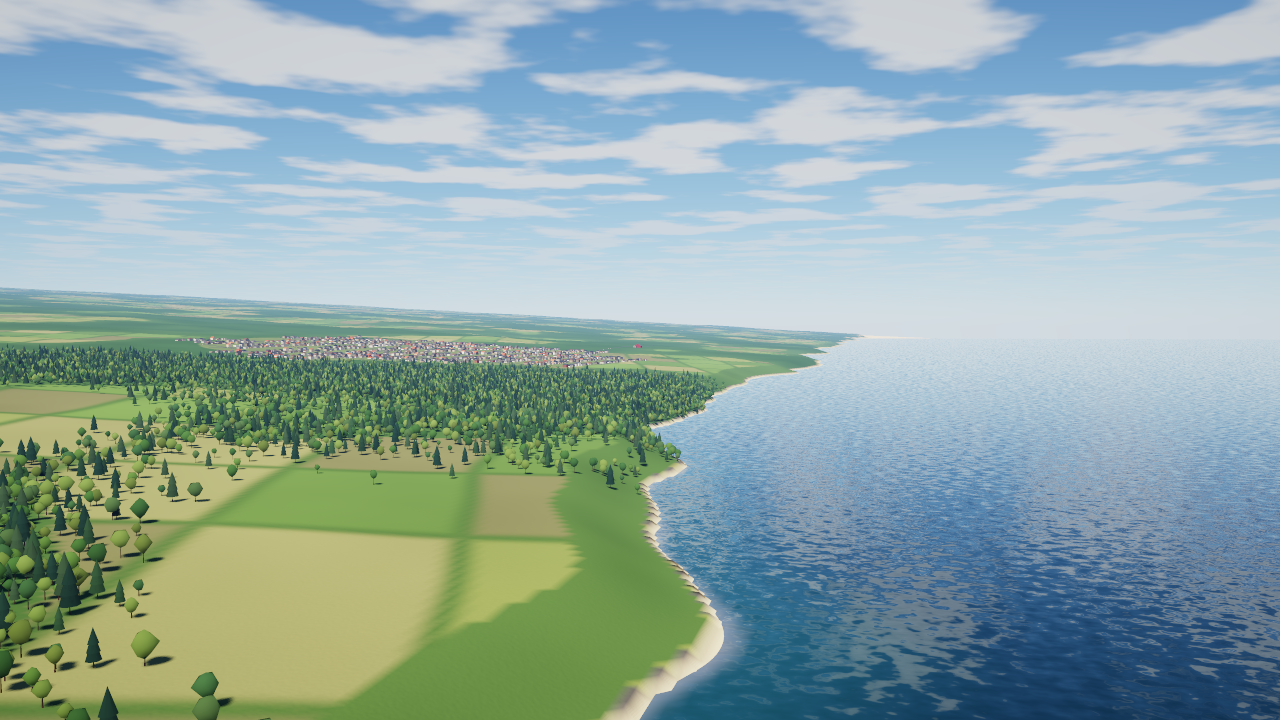
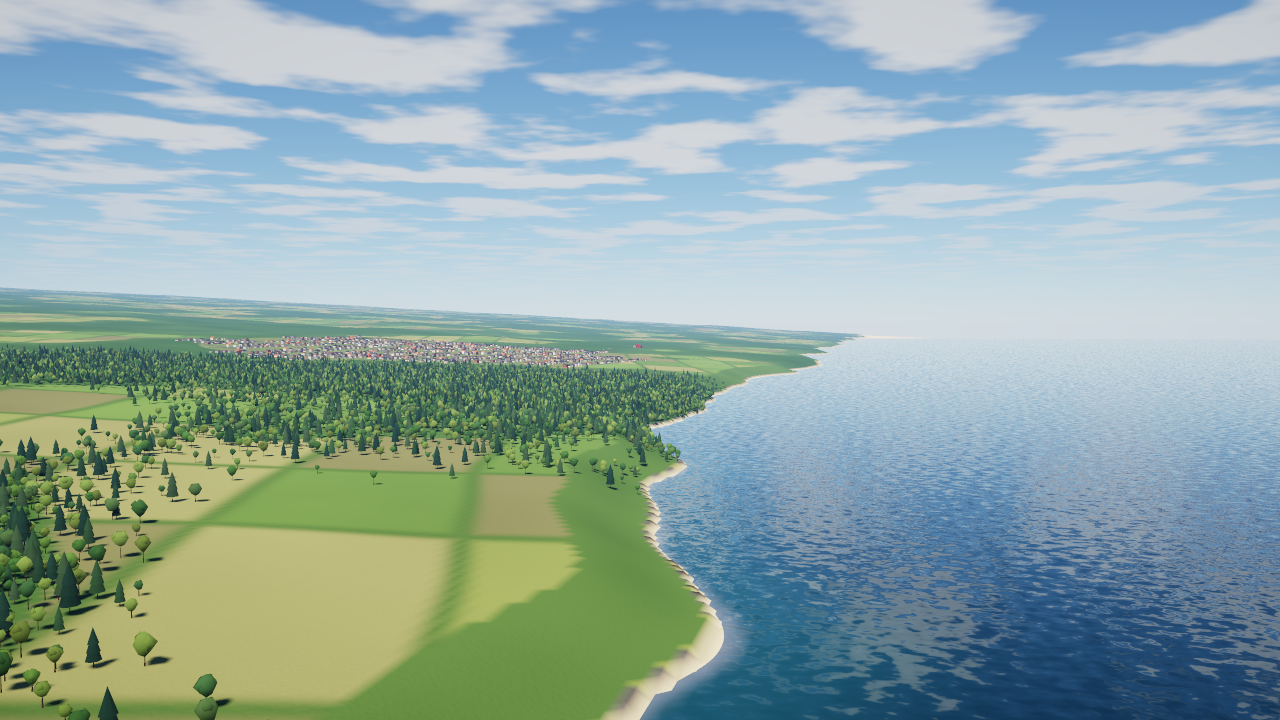
[P1.3] Clustered lobed tree crowns with darker undersides
Claude-Session: https://claude.ai/code/session_01LuDJ4arcj2AiLQbMi9mk9u

diff --git a/Packages/SkyforgeKit/Sources/SFPreview/SceneBuilder.swift b/Packages/SkyforgeKit/Sources/SFPreview/SceneBuilder.swift
@@ -511,7 +511,20 @@ public struct SceneBuilder {
         } else {
             let cz = p.z + t.height - t.crownRadius * 1.05
             if detail >= 2 { addCone(SIMD3(p.x, p.y, p.z - 0.5), radius: 0.3, top: cz, sides: 4, colour: trunk, material: .opaque) }
-            addBlob(SIMD3(p.x, p.y, cz), rx: t.crownRadius, rz: t.crownRadius * 1.1, detail: detail, colour: col)
+            if detail >= 2 {
+                // Clustered crown: a main mass plus 2–3 offset lobes, so silhouettes break up like real canopies.
+                let h = Hash.combine(UInt64(bitPattern: Int64(p.x * 7)), UInt64(bitPattern: Int64(p.y * 7)))
+                let r = t.crownRadius
+                addBlob(SIMD3(p.x, p.y, cz), rx: r * 0.86, rz: r * 0.95, detail: detail, colour: col)
+                let lobes = 2 + Int(h % 2)
+                for k in 0..<lobes {
+                    let a = Double(k) / Double(lobes) * 2 * .pi + Double(h % 628) / 100
+                    let off = SIMD3(cos(a) * r * 0.5, sin(a) * r * 0.5, r * (0.1 + 0.25 * Double((h >> (8 + k)) & 1)))
+                    addBlob(SIMD3(p.x, p.y, cz) + off, rx: r * 0.58, rz: r * 0.62, detail: 1, colour: col * Float(0.94 + 0.08 * Double(k)))
+                }
+            } else {
+                addBlob(SIMD3(p.x, p.y, cz), rx: t.crownRadius, rz: t.crownRadius * 1.1, detail: detail, colour: col)
+            }
         }
         stats["trees", default: 0] += 1
     }
@@ -552,7 +565,9 @@ public struct SceneBuilder {
         for (a, b, d) in tris {
             func p(_ u: SIMD3<Double>) -> SIMD3<Double> { let l = lump(u); return c + SIMD3(u.x * rx * l, u.y * rx * l, u.z * rz * l) }
             func n(_ u: SIMD3<Double>) -> SIMD3<Float> { SIMD3(Float(u.x), Float(u.y), Float(u.z)) }
-            soup.add(p(a), p(b), p(d), na: n(a), nb: n(b), nc: n(d), colour: colour, material: .foliage)
+            // Darker underside (self-shadowed inner canopy), lighter sunlit top (art review: toy spheres).
+            func col(_ u: SIMD3<Double>) -> SIMD3<Float> { colour * Float(0.72 + 0.34 * (u.z * 0.5 + 0.5)) }
+            soup.add(p(a), p(b), p(d), na: n(a), nb: n(b), nc: n(d), ca: col(a), cb: col(b), cc: col(d), material: .foliage)
         }
     }
 }

diff --git a/docs/STATE.md b/docs/STATE.md
@@ -1,9 +1,9 @@
-LAST_UPDATE: 2026-11-08T14:19:03Z
+LAST_UPDATE: 2026-11-08T14:46:16Z
 
 # SKYFORGE state
 
 ## Phase
-P0 accepted (CI fully green). P1 in progress: P1.1, P1.2, P1.2b-2, P1.4, P1.7b, P1.8b, P1.9, P1.10, P1.12, P1.5, P1.6a, P1.2b-1, P1.6b, P1.7, P1.8a, P1.11 done; P1.3 renderer done with visuals below target (independent art review 5.20/10 vs commercial sims after 5 rounds; open: per-pixel land cover, river banks, impostors).
+P0 accepted (CI fully green). P1 in progress: P1.1, P1.2, P1.2b-2, P1.4, P1.7b, P1.8b, P1.9, P1.10, P1.12, P1.5, P1.6a, P1.2b-1, P1.6b, P1.7, P1.8a, P1.11 done; P1.3 renderer done with visuals below target (independent art review 5.30/10 vs commercial sims after 6 rounds; open: per-pixel land cover, tree crowns, impostors).
 
 ## Environment facts (recorded at session start)
 - Host: Linux x86_64, Ubuntu 24.04.5 LTS, 4 CPUs, 15 GB RAM (Claude Code on the web sandbox).
@@ -57,4 +57,4 @@ P0 accepted (CI fully green). P1 in progress: P1.1, P1.2, P1.2b-2, P1.4, P1.7b, 
 - Nothing known. Speckle fixed in f8afa50 (CI frame reviewed).
 
 ## Last green SHA
-- a1edd3a (CI run 42488405244: all jobs green; bounce light on shaded terrain)
+- 7e449cd (CI run 42490541435: all jobs green; smooth river waterlines, GGX preview paint)

diff --git a/docs/VISUAL_LOG.md b/docs/VISUAL_LOG.md
@@ -141,3 +141,4 @@ Open defects (next passes): near-field ground is flat colour (needs detail textu
 - a 5.50, d 5.00, e 5.50, f 5.67, j 4.83 → **5.30** (was 5.20). Acne bands gone; bounce light helped (f).
 - River waterline (top defect): the channel profile stepped 2.5 m at half-width + 4 m, just inside the 6 m-wider water ribbon, so terrain poked through the ribbon in a grid sawtooth. Channels are now continuous smoothsteps that stay below the surface past the ribbon edge (forest river −6.5 m fading over 12 m; mountain river 4.5 m over 18–30 m), so the ribbon's smooth edge is the waterline and the exposed slope beyond it reads as wet bank. `isWater` covers the ribbon extent. Waterlines in (d) and (f) are now smooth.
 - Aircraft paint in the CPU previews now uses the same GGX dielectric as Metal plus a sky/ground environment term and slightly lower albedo: glossy gradients and sky reflections instead of flat over-exposed white.
+- Tree crowns: near broadleaf trees are a main mass plus 2–3 offset lobes; all crowns get per-vertex shading (darker underside, lighter top) so they read as canopies rather than toy spheres.

diff --git a/docs/VERIFICATION_LOG.md b/docs/VERIFICATION_LOG.md
@@ -94,3 +94,4 @@ Every gate run, CI run and manual verification. Newest at the bottom.
 - 2026-11-08T14:27:18Z gate fast on Linux x86_64: PASS (HEAD 7f5d86b)
 - 2026-11-08T14:29:27Z gate fast on Linux x86_64: PASS (HEAD 7f5d86b)
 - 2026-11-08T14:35:07Z gate fast on Linux x86_64: PASS (HEAD 6b84662)
+- 2026-11-08T14:51:46Z gate fast on Linux x86_64: PASS (HEAD 7e449cd)
